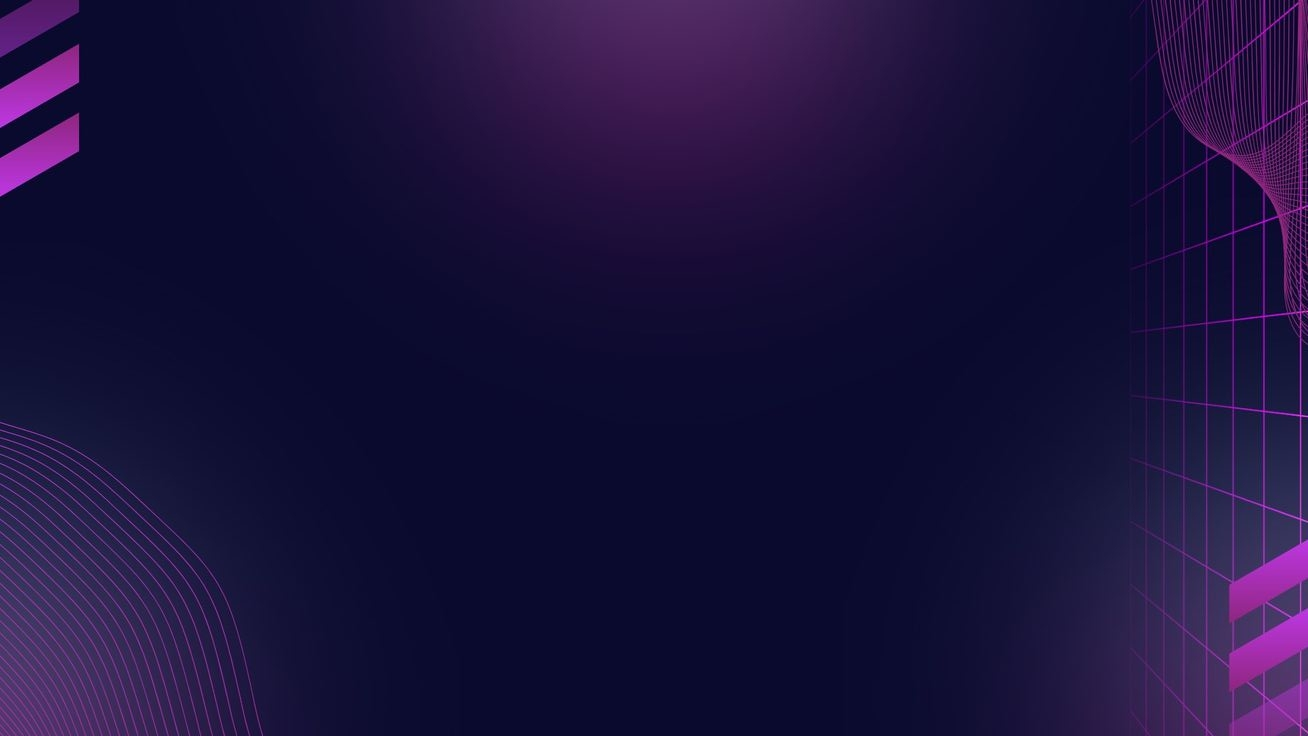
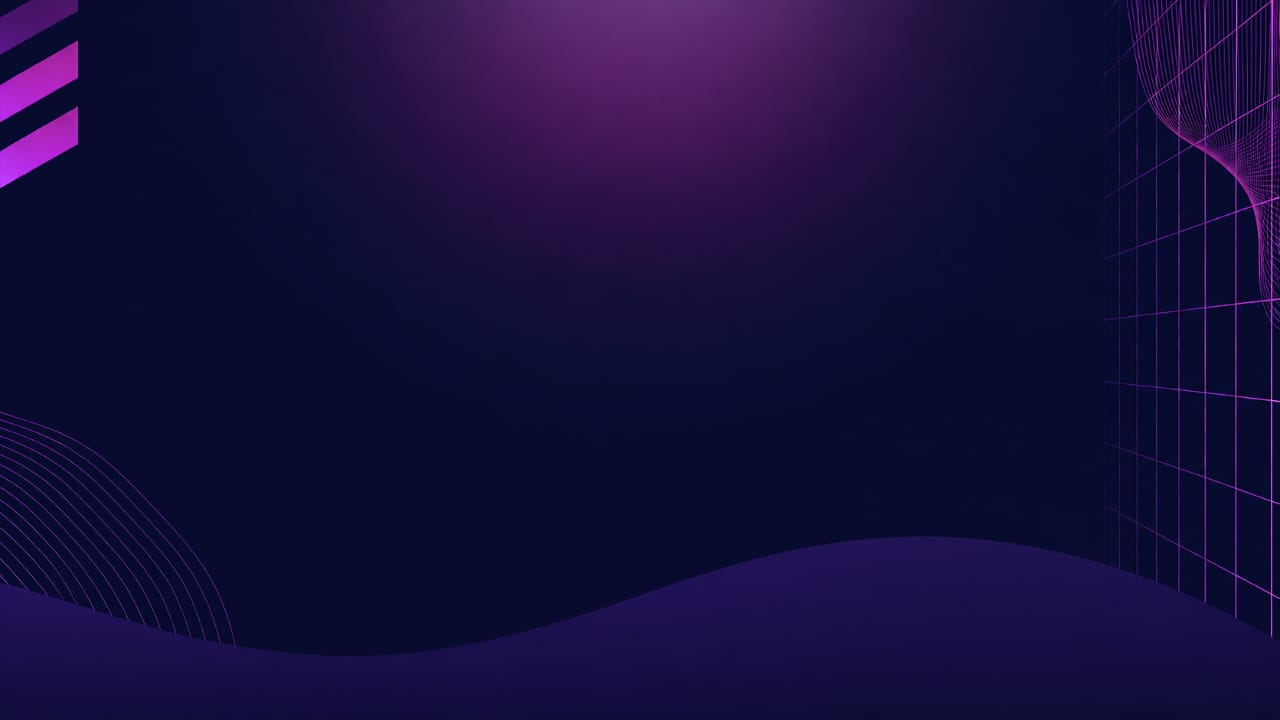
Add files via upload

diff --git a/Apropos.html b/Apropos.html
@@ -35,62 +35,97 @@
                 '40': "40px",
                 '50': "50px",
                 '70': "70px",
-                '100': "100px"
+                '100': "100px",
+                '150': "150px",
+                '200': "200px"
               }
             }
           }
         }
         lucide.createIcons()
     </script>
+    <style>
+        c {
+            color: #1a227ed0;
+        }
+    </style>
 </head>
 <body style="font-family: 'Courier New', Courier, monospace;" onload="f()">
-    <section class="hidden md:block md:px-50 md:py-20 bg-gray-300 fixed w-full">
-        <div class="">
-            <nav class="flex justify-between items-center">
-                <h1 class="text-3xl font-bold text-center text-quarty"><span class="font-bodoni"> SINNOVA</span> <br> <span class="text-2xl text-primary">TOCLOE</span></h1>
-                <ul class="flex gap-40 shadow-2lg px-100 py-3 rounded-full bg-cinqy">
-                    <li class="">
-                        <a href="index.html" class="flex gap-2 items-center hover:border-b-2 duration-600 hover:border-primary hover:text-primary pb-2">
-                            <svg xmlns="http://www.w3.org/2000/svg" width="24" height="24" viewBox="0 0 24 24" fill="none" stroke="currentColor" stroke-width="1.25" stroke-linecap="round" stroke-linejoin="round" class="lucide lucide-house-roof-icon lucide-house-roof"><path d="M2.6 10.4a2.12 2.12 0 1 0 3.02 2.98L12 7l6.4 6.4a2.12 2.12 0 1 0 2.979-3.021L13.7 2.7a2.4 2.4 0 0 0-3.404.004Z"/><path d="M20 14v6a2 2 0 0 1-2 2H6a2 2 0 0 1-2-2v-6"/><path d="M14 22v-6a2 2 0 0 0-4 0v6"/></svg>
-                            Acceuil</a>
-                    </li>
-                    <li class="">
-                        <a href="Apropos.html" class="flex gap-2 items-center hover:border-b-2 duration-600 hover:border-primary hover:text-primary pb-2" id="a">
-                            <svg xmlns="http://www.w3.org/2000/svg" width="24" height="24" viewBox="0 0 24 24" fill="none" stroke="currentColor" stroke-width="2" stroke-linecap="round" stroke-linejoin="round" class="lucide lucide-file-user-icon lucide-file-user"><path d="M6 22a2 2 0 0 1-2-2V4a2 2 0 0 1 2-2h8a2.4 2.4 0 0 1 1.704.706l3.588 3.588A2.4 2.4 0 0 1 20 8v12a2 2 0 0 1-2 2z"/><path d="M14 2v5a1 1 0 0 0 1 1h5"/><path d="M16 22a4 4 0 0 0-8 0"/><circle cx="12" cy="15" r="3"/></svg>
-                            A propos</a>
-                    </li>
-                    <li class="">
-                        <a href="univers.html" class="flex gap-2 items-center hover:border-b-2 duration-600 hover:border-primary hover:text-primary pb-2">
-                            <svg xmlns="http://www.w3.org/2000/svg" width="24" height="24" viewBox="0 0 24 24" fill="none" stroke="currentColor" stroke-width="2" stroke-linecap="round" stroke-linejoin="round" class="lucide lucide-globe-icon lucide-globe"><circle cx="12" cy="12" r="10"/><path d="M12 2a14.5 14.5 0 0 0 0 20 14.5 14.5 0 0 0 0-20"/><path d="M2 12h20"/></svg>
-                            Univers</a>
-                    </li>
-                    <li class="">
-                        <a href="portfolio.html" class="flex gap-2 items-center hover:border-b-2 duration-600 hover:border-primary hover:text-primary pb-2">
-                            <svg xmlns="http://www.w3.org/2000/svg" width="24" height="24" viewBox="0 0 24 24" fill="none" stroke="currentColor" stroke-width="1.25" stroke-linecap="round" stroke-linejoin="round" class="lucide lucide-chart-bar-increasing-icon lucide-chart-bar-increasing"><path d="M3 3v16a2 2 0 0 0 2 2h16"/><path d="M7 11h8"/><path d="M7 16h12"/><path d="M7 6h3"/></svg>
-                            Portfolio</a>
-                    </li>
-                    <li class="">
-                        <a href="contact.html" class="flex gap-2 items-center hover:border-b-2 duration-600 hover:border-primary hover:text-primary pb-2">
-                            <svg xmlns="http://www.w3.org/2000/svg" width="24" height="24" viewBox="0 0 24 24" fill="none" stroke="currentColor" stroke-width="1.25" stroke-linecap="round" stroke-linejoin="round" class="lucide lucide-phone-call-icon lucide-phone-call"><path d="M13 2a9 9 0 0 1 9 9"/><path d="M13 6a5 5 0 0 1 5 5"/><path d="M13.832 16.568a1 [phone redacted]-.303l.355-.465A2 2 0 0 1 17 15h3a2 2 0 0 1 2 2v3a2 2 0 0 1-2 2A18 18 0 0 1 2 4a2 2 0 0 1 2-2h3a2 2 0 0 1 2 2v3a2 2 0 0 1-.8 1.6l-.468.351a1 1 0 0 0-.[phone redacted].[phone redacted]"/></svg>
-                            Contact</a>
-                    </li>
-                </ul>
-                <ul class="flex items-center gap-20">
-                    <li>
-                        <select name="" id="" class="p-2 text-black">
-                            <option value="FR">FR 🇨🇵</option>
-                            <option value="ENG">ENG 🇱🇷</option>
-                        </select>
-                    </li>
-                    <li>
-                        <button class="bg-primary p-2 text-quarty rounded-full shadow-lg">
-                            <svg xmlns="http://www.w3.org/2000/svg" width="24" height="24" viewBox="0 0 24 24" fill="none" stroke="currentColor" stroke-width="2" stroke-linecap="round" stroke-linejoin="round" class="lucide lucide-sun-medium-icon lucide-sun-medium"><circle cx="12" cy="12" r="4"/><path d="M12 3v1"/><path d="M12 20v1"/><path d="M3 12h1"/><path d="M20 12h1"/><path d="m18.364 5.636-.707.707"/><path d="m6.343 17.657-.707.707"/><path d="m5.636 5.636.707.707"/><path d="m17.657 17.657.707.707"/></svg>
-                        </button>
-                        <button class="">
-                        </button>
-                    </li>
-                </ul>
-            </nav>
+    <header class="bg-[url(1.jpeg)] bg-cover w-full text-quarty">
+        <section class="bg-gradient-to-t from-[#1a227ed0] via-[#1a227ed0] to-transparent">
+            <section class="hidden md:block md:px-50 md:py-20 bg-blur-md fixed w-full">
+                <div class="">
+                    <nav class="flex justify-between items-center">
+                        <h1 class="text-3xl font-bold text-center text-quarty"><span class="font-bodoni"> SINNOVA</span> <br> <span class="text-2xl text-primary">TOCLOE</span></h1>
+                        <ul class="flex gap-40 shadow-2lg px-100 py-3 rounded-full bg-cinqy">
+                            <li class="">
+                                <a href="index.html" class="flex gap-2 items-center hover:border-b-2 duration-600 hover:border-primary hover:text-primary pb-2">
+                                    <svg xmlns="http://www.w3.org/2000/svg" width="24" height="24" viewBox="0 0 24 24" fill="none" stroke="currentColor" stroke-width="1.25" stroke-linecap="round" stroke-linejoin="round" class="lucide lucide-house-roof-icon lucide-house-roof"><path d="M2.6 10.4a2.12 2.12 0 1 0 3.02 2.98L12 7l6.4 6.4a2.12 2.12 0 1 0 2.979-3.021L13.7 2.7a2.4 2.4 0 0 0-3.404.004Z"/><path d="M20 14v6a2 2 0 0 1-2 2H6a2 2 0 0 1-2-2v-6"/><path d="M14 22v-6a2 2 0 0 0-4 0v6"/></svg>
+                                    Acceuil</a>
+                            </li>
+                            <li class="">
+                                <a href="Apropos.html" class="flex gap-2 items-center hover:border-b-2 duration-600 hover:border-primary hover:text-primary pb-2" id="a">
+                                    <svg xmlns="http://www.w3.org/2000/svg" width="24" height="24" viewBox="0 0 24 24" fill="none" stroke="currentColor" stroke-width="2" stroke-linecap="round" stroke-linejoin="round" class="lucide lucide-file-user-icon lucide-file-user"><path d="M6 22a2 2 0 0 1-2-2V4a2 2 0 0 1 2-2h8a2.4 2.4 0 0 1 1.704.706l3.588 3.588A2.4 2.4 0 0 1 20 8v12a2 2 0 0 1-2 2z"/><path d="M14 2v5a1 1 0 0 0 1 1h5"/><path d="M16 22a4 4 0 0 0-8 0"/><circle cx="12" cy="15" r="3"/></svg>
+                                    A propos</a>
+                            </li>
+                            <li class="">
+                                <a href="univers.html" class="flex gap-2 items-center hover:border-b-2 duration-600 hover:border-primary hover:text-primary pb-2">
+                                    <svg xmlns="http://www.w3.org/2000/svg" width="24" height="24" viewBox="0 0 24 24" fill="none" stroke="currentColor" stroke-width="2" stroke-linecap="round" stroke-linejoin="round" class="lucide lucide-globe-icon lucide-globe"><circle cx="12" cy="12" r="10"/><path d="M12 2a14.5 14.5 0 0 0 0 20 14.5 14.5 0 0 0 0-20"/><path d="M2 12h20"/></svg>
+                                    Univers</a>
+                            </li>
+                            <li class="">
+                                <a href="portfolio.html" class="flex gap-2 items-center hover:border-b-2 duration-600 hover:border-primary hover:text-primary pb-2">
+                                    <svg xmlns="http://www.w3.org/2000/svg" width="24" height="24" viewBox="0 0 24 24" fill="none" stroke="currentColor" stroke-width="1.25" stroke-linecap="round" stroke-linejoin="round" class="lucide lucide-chart-bar-increasing-icon lucide-chart-bar-increasing"><path d="M3 3v16a2 2 0 0 0 2 2h16"/><path d="M7 11h8"/><path d="M7 16h12"/><path d="M7 6h3"/></svg>
+                                    Portfolio</a>
+                            </li>
+                            <li class="">
+                                <a href="contact.html" class="flex gap-2 items-center hover:border-b-2 duration-600 hover:border-primary hover:text-primary pb-2">
+                                    <svg xmlns="http://www.w3.org/2000/svg" width="24" height="24" viewBox="0 0 24 24" fill="none" stroke="currentColor" stroke-width="1.25" stroke-linecap="round" stroke-linejoin="round" class="lucide lucide-phone-call-icon lucide-phone-call"><path d="M13 2a9 9 0 0 1 9 9"/><path d="M13 6a5 5 0 0 1 5 5"/><path d="M13.832 16.568a1 [phone redacted]-.303l.355-.465A2 2 0 0 1 17 15h3a2 2 0 0 1 2 2v3a2 2 0 0 1-2 2A18 18 0 0 1 2 4a2 2 0 0 1 2-2h3a2 2 0 0 1 2 2v3a2 2 0 0 1-.8 1.6l-.468.351a1 1 0 0 0-.[phone redacted].[phone redacted]"/></svg>
+                                    Contact</a>
+                            </li>
+                        </ul>
+                        <ul class="flex items-center gap-20">
+                            <li>
+                                <select name="" id="" class="p-2 text-black">
+                                    <option value="FR">FR 🇨🇵</option>
+                                    <option value="ENG">ENG 🇱🇷</option>
+                                </select>
+                            </li>
+                            <li>
+                                <button class="bg-primary p-2 text-quarty rounded-full shadow-lg">
+                                    <svg xmlns="http://www.w3.org/2000/svg" width="24" height="24" viewBox="0 0 24 24" fill="none" stroke="currentColor" stroke-width="2" stroke-linecap="round" stroke-linejoin="round" class="lucide lucide-sun-medium-icon lucide-sun-medium"><circle cx="12" cy="12" r="4"/><path d="M12 3v1"/><path d="M12 20v1"/><path d="M3 12h1"/><path d="M20 12h1"/><path d="m18.364 5.636-.707.707"/><path d="m6.343 17.657-.707.707"/><path d="m5.636 5.636.707.707"/><path d="m17.657 17.657.707.707"/></svg>
+                                </button>
+                                <button class="">
+                                </button>
+                            </li>
+                        </ul>
+                    </nav>
+                </div>
+            </section>
+            <section class="px-10 md:px-100 pt-200">
+                <div class="text-center pt-200 pb-100">
+                    <h1 class="text-6xl font-bodoni font-bold text-primary">A propos de moi</h1>
+                    <p class="mt-5 text-center">Lorem ipsum dolor sit amet consectetur adipisicing elit. Explicabo quia ipsa necessitatibus <br> voluptatem quis. Soluta, sapiente pariatur saepe omnis voluptates modi necessitatibus <br> harum rerum? Est maiores culpa eum doloribus voluptates!</p>
+                    <center>
+                        
+                    </center>
+                </div>
+            </section>
+        </section>
+    </header>
+    <section>
+        <div class="flex gap-50 items-center pt-40 px-10 md:px-100">
+            <div class="w-full">
+                <img src="SINNOVA6.jpg" alt="" class="w-full rounded-bl-[100px] rounded-tl-[100px] rounded-full shadow-2xl">
+            </div>
+            <div class="w-full">
+                <h1 class="text-6xl font-bodoni font-bold text-primary">Animation <span class="text-tertiary">&</span><br> Énènements</h1>
+                <p class="mt-4">Lorem ipsum dolor sit amet consectetur adipisicing elit. Cum veritatis, accusantium, molestiae ipsam ex in nobis quos laboriosam ab delectus optio aliquam rerum explicabo vitae at? Quisquam et laudantium quidem.</p>
+                
+                <div class="w-full mt-30">
+                    <button class="bg-primary text-quarty px-20 py-3 rounded-sm w-full hover:shadow-2xl hover:-translate-y-3 duration-900 transition-transform flex justify-between items-center">Galerie <svg xmlns="http://www.w3.org/2000/svg" width="36" height="36" viewBox="0 0 24 24" fill="none" stroke="currentColor" stroke-width="1" stroke-linecap="round" stroke-linejoin="round" class="lucide lucide-arrow-right-icon lucide-arrow-right bg-tertiary rounded-full p-2 font-bold font-outfit"><path d="M5 12h14"/><path d="m12 5 7 7-7 7"/></svg> </button>
+                </div>
+            </div>
         </div>
     </section>
     <script>

diff --git a/index.html b/index.html
@@ -86,11 +86,8 @@
                                 </select>
                             </li>
                             <li>
-                                <button class="bg-primary p-2 text-quarty rounded-full shadow-lg">
+                                <button class="bg-primary p-2 text-quarty rounded-full shadow-lg transition-transform hover:bg-tertiary duration-900">
                                     <svg xmlns="http://www.w3.org/2000/svg" width="24" height="24" viewBox="0 0 24 24" fill="none" stroke="currentColor" stroke-width="2" stroke-linecap="round" stroke-linejoin="round" class="lucide lucide-sun-medium-icon lucide-sun-medium"><circle cx="12" cy="12" r="4"/><path d="M12 3v1"/><path d="M12 20v1"/><path d="M3 12h1"/><path d="M20 12h1"/><path d="m18.364 5.636-.707.707"/><path d="m6.343 17.657-.707.707"/><path d="m5.636 5.636.707.707"/><path d="m17.657 17.657.707.707"/></svg>
-                                </button>
-                                <button class="">
-    
                                 </button>
                             </li>
                         </ul>
@@ -98,31 +95,31 @@
                 </div>
             </section>
             <section class="">
-                <div class="flex px-10 md:px-100 md:pt-100 text-quarty">
+                <div class="block md:flex px-10 md:px-100 md:pt-100 text-quarty">
                     <div class="w-full">
                         <h1 class="">
-                            <span class="uppercase text-9xl font-bodoni">Synnova</span> <br>
+                            <span class="uppercase text-6xl md:text-9xl font-bodoni">Synnova</span> <br>
                             <span class="text-primary text-2xl font-extrabold">Belvine Kybarance TOCLOE</span>
                         </h1>
                         <p class="mt-40">Animatrice · Communicatrice · Actrice · Entrepreneuse sociale. Une <br> voix qui résonne, un engagement qui transfrome.</p>
                         <div class="pt-30 flex w-full gap-70">
                             <div class="">
-                                <button class="bg-primary pl-40 pr-30 py-3 flex rounded-full">Découvrir mon univers &nbsp;&nbsp;&nbsp;&nbsp;&nbsp;&nbsp; 
-                                    <span class="bg-quarty text-primary p-1 rounded-full">
+                                <a href="univers.html" class="bg-primary pl-40 pr-30 py-3 flex rounded-full hover:-translate-y-3 transition-transform duration-900">Découvrir mon univers &nbsp;&nbsp;&nbsp;&nbsp;&nbsp;&nbsp; 
+                                    <span class="bg-quarty text-primary p-1 rounded-full transition-transform hover:bg-tertiary hover:text-quarty duration-800">
                                         <svg xmlns="http://www.w3.org/2000/svg" width="24" height="24" viewBox="0 0 24 24" fill="none" stroke="currentColor" stroke-width="1.25" stroke-linecap="round" stroke-linejoin="round" class="lucide lucide-move-right-icon lucide-move-right"><path d="M18 8L22 12L18 16"/><path d="M2 12H22"/></svg> 
                                     </span>
-                                </button>
+                                </a>
                             </div>
                             <!-- <div class="">
                                 <button class="border-2 border-tertiary text-tertiary px-40 py-3">Me contacter</button>
                             </div> -->
                         </div>
                     </div>
-                    <div class="flex gap-20 w-full">
+                    <div class="flex gap-20 w-full sm:pt-100">
                         <div class="">
                             <img src="1.jpeg" alt="image-sinnova" class="h-[400px] w-[800px] shadow-2xl object-cover rounded-tl-[100px] rounded-tr-[100px]">
                         </div>
-                        <div class="font-passions text-6xl w-full text-quarty">
+                        <div class="font-passions text-6xl w-full text-quarty hidden mb:block lg:block">
                             <ul class="">
                                 <li class="rotate-[-30deg]">Raconter</li>
                                 <li class="rotate-[-30deg]">Inspirer</li>
@@ -133,19 +130,19 @@
                 </div>
             </section>
             <div class="flex justify-center gap-5 mt-30 pb-70 text-quarty">
-                <div class="p-3 bg-primary text-1xl font-extrabold rounded-full">
+                <div class="p-3 bg-primary text-1xl font-extrabold rounded-full transition-transform hover:bg-tertiary duration-900">
                     <i class="fab fa-facebook"></i>
                 </div>
 
-                <div class="p-3 bg-primary text-1xl font-extrabold rounded-full">
+                <div class="p-3 bg-primary text-1xl font-extrabold rounded-full transition-transform hover:bg-tertiary duration-900">
                     <i class="fab fa-whatsapp"></i>
                 </div>
 
-                <div class="p-3 bg-primary text-1xl font-extrabold rounded-full">
+                <div class="p-3 bg-primary text-1xl font-extrabold rounded-full transition-transform hover:bg-tertiary duration-900">
                     <i class="fab fa-linkedin"></i>
                 </div>
                 
-                <div class="p-3 bg-primary text-1xl font-extrabold rounded-full">
+                <div class="p-3 bg-primary text-1xl font-extrabold rounded-full transition-transform hover:bg-tertiary duration-900">
                     <i class="fab fa-instagram"></i>
                 </div>
             </div>
@@ -153,8 +150,8 @@
     </header>
     <section class="">
         <div class="flex-column justify-center px-20 md:px-50">
-            <p class="py-50 text-2xl font-bodoni italic text-tertiary tracking-[5px] text-center"> <span class="text-7xl font-serif italic text-primary">"</span> Je suis une femme en chemin <br> portée par la création<span>,</span> la parole <br> et l'engagement. <span class="text-6xl font-serif italic text-primary">"</span></p>
-            <div class="flex justify-end">
+            <p class="py-20 text-2xl font-bodoni italic text-tertiary font-bold text-center"> <span class="text-7xl italic text-primary">"</span> <br> Je suis une femme en chemin <br> portée par la création<span>,</span> la parole <br> et l'engagement.  <br><br><span class="text-6xl italic text-primary">"</span></p>
+            <div class="flex justify-center">
                 <p class="font-passions pr-100 mb-70 text-6xl font-extrabold text-tertiary"> - Synnova</p>
             </div>
         </div>
@@ -162,8 +159,8 @@
     <main class="">
         <section class="px-10 md:px-100">
             <h3 class="text-3xl font-bodoni font-bold text-primary"> <span class="text-tertiary">~~</span> Mes Facettes</h3>
-            <div class="flex justify-between mt-10 items-center gap-50">
-                <div class="">
+            <div class="block md:flex justify-between mt-10 items-center gap-50">
+                <div class="sm:mt-20">
                     <div class="border-2 rounded-[30px] overflow-hidden shadow-2xl bg-gray-200">
                         <div class="relative">
                             <img src="SINNOVAwb.jpg" alt="image-sinnova" class="h-[400px] w-full object-cover">
@@ -173,16 +170,16 @@
                             <div class="overflow-hidden w-full">
                                 <h2 class="text-2xl font-bodoni font-bold text-tertiary text-center">Animatrice & <br> Énènements</h2>
                             </div>
-                            <span class="w-full bg-primary px-10 py-3 text-quarty rounded-full flex justify-between items-center shadow-2xl">
+                            <a href="univers.html" class="w-full bg-primary px-10 py-3 text-quarty rounded-full flex justify-between items-center shadow-2xl">
                                 Découvrir 
                                 <span class="bg-tertiary rounded-full p-2 shadow-2xl">
                                     <i class="fas fa-arrow-right"></i>
                                 </span>
-                            </span>
+                            </a>
                         </div>
                     </div>
                 </div>
-                <div class="">
+                <div class="sm:mt-20">
                     <div class="border-2 rounded-[30px] overflow-hidden shadow-2xl bg-gray-200">
                         <div class="relative">
                             <img src="SINNOVA7.jpg" alt="image-sinnova" class="h-[400px] w-full object-cover">
@@ -192,54 +189,92 @@
                             <div class="overflow-hidden w-full">
                                 <h2 class="text-2xl font-bodoni font-bold text-tertiary text-center">Communication <br> Digitale</h2>
                             </div>
-                            <span class="w-full bg-primary px-10 py-3 text-quarty rounded-full flex justify-between items-center shadow-2xl">
+                            <a href="univers.html" class="w-full bg-primary px-10 py-3 text-quarty rounded-full flex justify-between items-center shadow-2xl">
                                 Découvrir 
                                 <span class="bg-tertiary rounded-full p-2 shadow-2xl">
                                     <i class="fas fa-arrow-right"></i>
                                 </span>
-                            </span>
+                            </a>
                         </div>
                     </div>
                     <div class="border-2 rounded-[30px] overflow-hidden shadow-2xl bg-gray-200 mt-5">
                         <div class="relative">
                             <img src="SINNOVAcc.jpg" alt="image-sinnova" class="h-[400px] w-full object-cover">
-                            <span class="text-4xl font-bodoni font-bold bg-primary text-quarty absolute top-5 left-5 p-3 rounded-full">04</span>
+                            <span class="text-4xl font-bodoni font-bold bg-primary text-quarty absolute top-5 left-5 p-3 rounded-full">03</span>
                         </div>
                         <div class="flex items-center justify-between px-5 py-4">
                             <div class="overflow-hidden w-full">
                                 <h2 class="text-2xl font-bodoni font-bold text-tertiary text-center">Entrepreneuriat <br> Social</h2>
                             </div>
-                            <span class="w-full bg-primary px-10 py-3 text-quarty rounded-full flex justify-between items-center shadow-2xl">
+                            <a href="univers.html" class="w-full bg-primary px-10 py-3 text-quarty rounded-full flex justify-between items-center shadow-2xl">
                                 Découvrir 
                                 <span class="bg-tertiary rounded-full p-2 shadow-2xl">
                                     <i class="fas fa-arrow-right"></i>
                                 </span>
-                            </span>
+                            </a>
                         </div>
                     </div>
                 </div>
-                <div class="border-2 rounded-[30px] overflow-hidden shadow-2xl bg-gray-200">
+                <div class="border-2 rounded-[30px] overflow-hidden shadow-2xl bg-gray-200 sm:mt-20">
                     <div class="relative">
                         <img src="SINNOVAsynnova.jpg" alt="image-sinnova" class="h-[400px] w-full object-cover">
-                        <span class="text-4xl font-bodoni font-bold bg-primary text-quarty absolute top-5 left-5 p-3 rounded-full">03</span>
+                        <span class="text-4xl font-bodoni font-bold bg-primary text-quarty absolute top-5 left-5 p-3 rounded-full">04</span>
                     </div>
                     <div class="flex items-center justify-between px-5 py-4">
                         <div class="overflow-hidden w-full">
                             <h2 class="text-2xl font-bodoni font-bold text-tertiary text-center">Cinéma & <br> Régie</h2>
                         </div>
-                        <span class="w-full bg-primary px-10 py-3 text-quarty rounded-full flex justify-between items-center shadow-2xl">
+                        <a href="univers.html" class="w-full bg-primary px-10 py-3 text-quarty rounded-full flex justify-between items-center shadow-2xl">
                             Découvrir 
                             <span class="bg-tertiary rounded-full p-2 shadow-2xl">
                                 <i class="fas fa-arrow-right"></i>
                             </span>
-                        </span>
+                        </a>
                     </div>
+                </div>
+            </div>
+        </section>
+        <section class="bg-primary text-quarty shadow-2xl">
+            <div class="px-10 md:px-100 py-100 mt-100">
+                <div class="block md:flex justify-between font-bold">
+                    <div class="flex-column justify-center">
+                        <center class="text-4xl font-bold font-bodoni sm:mt-5"> <span class="font-bold font-outfit">+</span>6</center>
+                        <center class="font-bodoni font-bold text-2xl">Année d'expérience</center>
+                    </div>
+                    <div class="flex-column justify-center">
+                        <center class="text-4xl font-bold font-bodoni sm:mt-5"> <span class="font-bold font-outfit">+</span>10</center>
+                        <center class="font-bodoni font-bold text-2xl">Expertise</center>
+                    </div>
+                    <div class="flex-column justify-center">
+                        <center class="text-4xl font-bold font-bodoni sm:mt-5"> <span class="font-bold font-outfit">+</span>10</center>
+                        <center class="font-bodoni font-bold text-2xl">Collaborations</center>
+                    </div>
+                </div>
+            </div>
+        </section>
+        <section class="px-10 md:px-100 mt-100">
+            <div class="flex items-center justify-between">
+                <h3 class="text-3xl font-bodoni font-bold text-primary"> <span class="text-tertiary">~~</span> En Actions</h3>
+                <a href="portfolio.html" class="text-tertiary border-b-2 border-tertiary">Voir plus <i class="fas fa-arrow-right"></i></a>
+            </div>
+            <div class="block md:flex justify-between gap-10 pt-40">
+                <div class="w-full rounded-[30px] cursor-pointer">
+                    <img src="SINNOVA8.jpg" alt="image-sinnova" class="w-full rounded-md">
+                </div>
+                <div class="w-full rounded-[30px] cursor-pointer">
+                    <img src="SINNOVA10.jpg" alt="image-sinnova" class="w-full rounded-md">
+                </div>
+                <div class="w-full rounded-[30px] cursor-pointer">
+                    <img src="SINNOVA145.jpg" alt="image-sinnova" class="w-full rounded-md">
+                </div>
+                <div class="w-full rounded-[30px] cursor-pointer">
+                    <img src="SINNOVAfs.jpg" alt="image-sinnova" class="w-full rounded-md">
                 </div>
             </div>
         </section>
     </main>
     <footer class="bg-tertiary mt-50">
-        <section class="flex justify-between px-10 w-full md:px-100 py-100">
+        <section class="block md:flex justify-between px-10 w-full md:px-100 py-100">
             <div class="">
                 <h1 class="text-quarty text-4xl font-bodoni font-extrabold">SYNNOVA <span class="text-2xl text-primary font-sans">TOCLOE</span></h1>
                 <p class="mt-5">&copy; Synnova TOCLOE 2026, Tous droits réservés.</p>